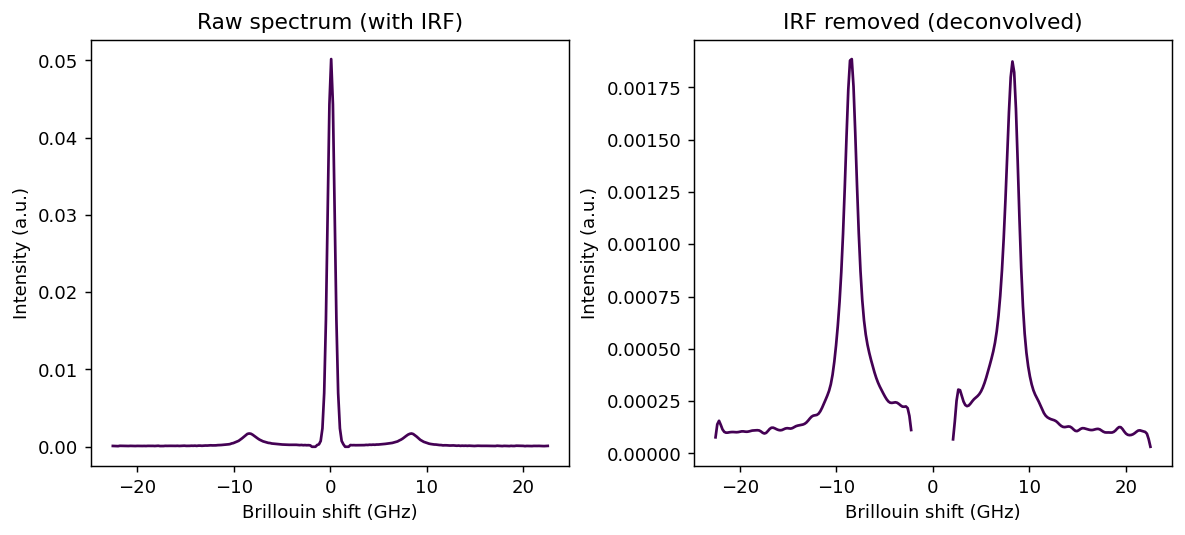
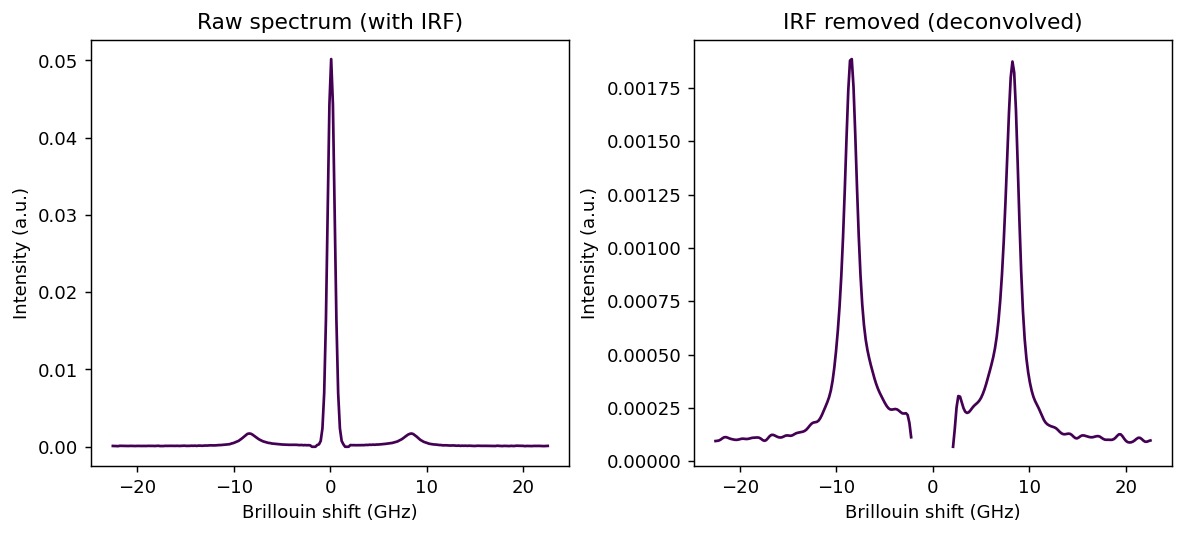
feat: add variance explained function for model selection and enhance IRF deconvolution with padding option

diff --git a/brillouinpy/preprocessing/misc.py b/brillouinpy/preprocessing/misc.py
@@ -91,7 +91,14 @@ class Deconvoluter_IRF(PreprocessingStep):
     iterations : int or None
         The number of Richardson-Lucy deconvolution iterations to run.
     padding : int or None
-        Currently unused by the underlying algorithm; accepted for forward compatibility.
+        Number of channels to reflect-pad the spectrum with on each side before running
+        the deconvolution, then crop back off afterwards. Richardson-Lucy deconvolution
+        otherwise treats the array edges as a hard boundary, which can produce artefacts
+        (a spurious up/down swing) near the first/last few channels; padding with a
+        reflected copy of the spectrum gives the algorithm room to work without that
+        boundary, at the cost of a bit of extra computation. ``None`` or ``0`` disables
+        padding. A value comparable to a few times the IRF's width is a reasonable start;
+        it must be smaller than the spectrum's length.
     """
 
     def __init__(self, *, offset: Number or None, iterations: Number or None, padding: Number or None): # type: ignore
@@ -143,7 +150,7 @@ def _find_instrumental_response(pixel_spectrum):
 
     return start, end
 
-def _deconvolute_irf(intensity_data, spectral_axis, offset, iterations=4, padding=100):
+def _deconvolute_irf(intensity_data, spectral_axis, offset, iterations=4, padding=None):
     '''
     Deconvolute the intensity data with the Instrumental Response Function (IRF) using the Richardson-Lucy algorithm.
     Additionally, the IRF gets removed from the spectral data.
@@ -153,19 +160,30 @@ def _deconvolute_irf(intensity_data, spectral_axis, offset, iterations=4, paddin
     corrected_intensity_data = np.copy(np.asarray(intensity_data))
     spectral_response = np.zeros(intensity_data.shape)
     spatial_shape = intensity_data.shape[:-1]
+    n_channels = intensity_data.shape[-1]
+    pad = padding or 0
 
     for idx in np.ndindex(spatial_shape):
         pixel_spectrum = intensity_data[idx + (slice(None),)]
         start, end = _find_instrumental_response(pixel_spectrum)
         spectral_response[idx + (slice(start, end),)] = pixel_spectrum[start:end]
 
+        image = corrected_intensity_data[idx + (slice(None),)]
+        psf = spectral_response[idx + (slice(None),)]
+        if pad:
+            # Richardson-Lucy treats the array edges as a hard boundary, which produces
+            # a spurious up/down swing near the first/last few channels; padding with a
+            # reflected copy gives it room to work before cropping back to the original
+            # range. The PSF is zero-padded to match, so the IRF's position within the
+            # padded array stays aligned with the (also padded) spectrum.
+            image = np.pad(image, pad, mode='reflect')
+            psf = np.pad(psf, pad, mode='constant')
+
         # Apply Richardson-Lucy deconvolution
-        corrected_intensity_data[idx + (slice(None),)] = restoration.richardson_lucy(
-            corrected_intensity_data[idx + (slice(None),)],
-            spectral_response[idx + (slice(None),)],
-            num_iter=iterations, clip=False,
-            filter_epsilon=None
+        deconvolved = restoration.richardson_lucy(
+            image, psf, num_iter=iterations, clip=False, filter_epsilon=None
         )
+        corrected_intensity_data[idx + (slice(None),)] = deconvolved[pad:pad + n_channels] if pad else deconvolved
         # Remove the IRF and additional offset
         corrected_intensity_data[
             idx + (slice(max(0, start - offset), min(intensity_data.shape[-1], end + offset)),)

diff --git a/brillouinpy/analysis/Step.py b/brillouinpy/analysis/Step.py
@@ -118,3 +118,70 @@ class AnalysisStep:
             return projections_folded[0], components
 
         return projections_folded, components
+
+
+def variance_explained(spectral_object, step_factory: Callable[[int], AnalysisStep], param_values):
+    """
+    Computes the fraction of variance in the data explained by the reconstruction
+    (``projections @ components``) of an :class:`AnalysisStep`, across a range of
+    component/endmember/cluster counts - a model-agnostic way to decide how many are
+    actually needed. This works for any decomposition/unmixing/clustering method
+    (:mod:`~brillouinpy.analysis.decompose`, :mod:`~brillouinpy.analysis.unmix`,
+    :class:`~brillouinpy.analysis.cluster.KMeans`) since they all share the same
+    ``apply() -> (projections, components)`` interface.
+
+    Parameters
+    ----------
+    spectral_object : core.SpectralObject
+        The data to evaluate (a single object, not a list).
+    step_factory : Callable[[int], AnalysisStep]
+        Builds the analysis step for a given count, e.g.
+        ``lambda n: brillouinpy.analysis.decompose.PCA(n_components=n)``,
+        ``lambda n: brillouinpy.analysis.unmix.VCA(n_endmembers=n)`` or
+        ``lambda n: brillouinpy.analysis.cluster.KMeans(n_clusters=n, random_state=0)``.
+    param_values : Iterable[int]
+        The component/endmember/cluster counts to evaluate.
+
+    Returns
+    -------
+    dict[int, float]
+        Fraction of variance explained (in ``[0, 1]``, higher is better) for each value
+        in ``param_values``. Plot this against ``param_values`` and look for the "elbow"
+        where additional components stop meaningfully improving the reconstruction,
+        rather than guessing ``n_components``/``n_endmembers``/``n_clusters`` blind.
+
+    Example
+    ----------
+
+    .. code::
+
+        variances = bp.analysis.variance_explained(
+            image,
+            lambda n: bp.analysis.decompose.NMF(n_components=n, init='nndsvda'),
+            param_values=range(1, 6),
+        )
+        plt.plot(list(variances.keys()), list(variances.values()), marker='o')
+    """
+    data = spectral_object.flat.spectral_data
+    original = np.ma.filled(data, np.nan) if np.ma.is_masked(data) else np.asarray(data)
+    original = original.astype(float)
+
+    results = {}
+    for n in param_values:
+        projections, components = step_factory(n).apply(spectral_object)
+
+        projections_matrix = np.stack([np.asarray(p).reshape(-1) for p in projections], axis=1)
+        components_matrix = np.stack([np.asarray(c) for c in components], axis=0)
+        reconstruction = projections_matrix @ components_matrix
+
+        # Some methods (e.g. PCA) reconstruct data around its per-channel mean rather
+        # than its absolute intensity; absorbing any constant per-channel offset here
+        # (equivalent to fitting an intercept per channel) keeps the metric comparable
+        # across methods without needing to know which ones centre their data.
+        residual = original - reconstruction
+        residual = residual - np.nanmean(residual, axis=0)
+        ss_res = np.nansum(residual ** 2)
+        ss_tot = np.nansum((original - np.nanmean(original, axis=0)) ** 2)
+        results[n] = 1.0 - ss_res / ss_tot if ss_tot > 0 else float('nan')
+
+    return results

diff --git a/tests/test_analysis_step.py b/tests/test_analysis_step.py
@@ -1,0 +1,54 @@
+import numpy as np
+import pytest
+
+from brillouinpy.analysis import decompose, cluster
+from brillouinpy.analysis.Step import variance_explained
+from brillouinpy.core import SpectralImage
+
+
+def _two_material_image(nx=10, ny=10, n_channels=100, seed=0):
+    rng = np.random.default_rng(seed)
+    axis = np.linspace(-20, 20, n_channels)
+
+    def dho(shift, width):
+        return np.exp(-0.5 * ((axis - shift) / width) ** 2)
+
+    spectrum_a = dho(-6.0, 1.0)
+    spectrum_b = dho(6.0, 1.0)
+
+    abundance_a = np.tile(np.linspace(0, 1, nx)[:, None], (1, ny))
+    abundance_b = 1 - abundance_a
+
+    data = (
+        abundance_a[..., None] * spectrum_a[None, None, :]
+        + abundance_b[..., None] * spectrum_b[None, None, :]
+    )
+    data += rng.normal(scale=1e-3, size=data.shape)
+
+    return SpectralImage(data, axis)
+
+
+def test_variance_explained_increases_with_more_components():
+    image = _two_material_image()
+
+    result = variance_explained(
+        image, lambda n: decompose.PCA(n_components=n, random_state=0), param_values=[1, 2, 3],
+    )
+
+    assert list(result.keys()) == [1, 2, 3]
+    assert all(0.0 <= v <= 1.0 + 1e-9 for v in result.values())
+    # Two components should already explain (nearly) everything for two-material data.
+    assert result[2] == pytest.approx(1.0, abs=1e-2)
+    # More components can't explain less variance than fewer.
+    assert result[1] <= result[2] + 1e-9
+    assert result[2] <= result[3] + 1e-9
+
+
+def test_variance_explained_works_with_kmeans():
+    image = _two_material_image()
+
+    result = variance_explained(
+        image, lambda n: cluster.KMeans(n_clusters=n, random_state=0, n_init=10), param_values=[1, 2],
+    )
+
+    assert result[1] < result[2]

diff --git a/tests/test_preprocessing_misc.py b/tests/test_preprocessing_misc.py
@@ -45,3 +45,35 @@ def test_deconvoluter_irf_works_on_raw_5d_shape():
 
     assert result.spectral_data.shape == volume_data.shape
     assert np.all(np.isnan(result.spectral_data[0, 1, 0, 0, 45:55]))
+
+
+def test_deconvoluter_irf_padding_preserves_shape_and_stays_finite():
+    data, axis = _spectrum_with_irf()
+    spectrum = Spectrum(data, axis)
+
+    result = Deconvoluter_IRF(offset=2, iterations=4, padding=15).apply(spectrum)
+
+    assert result.spectral_data.shape == data.shape
+    valid = ~np.isnan(result.spectral_data)
+    assert np.all(np.isfinite(result.spectral_data[valid]))
+    assert np.all(np.isnan(result.spectral_data[45:55]))
+
+
+def test_deconvoluter_irf_padding_reduces_edge_artefact():
+    # A peak whose flank is cut off right at the array's edge (index 0) - the case padding
+    # is meant to help with, since the unpadded deconvolution treats that as a hard boundary.
+    n_channels = 100
+    axis = np.linspace(-20, 20, n_channels)
+    irf_index = 50
+    irf = np.exp(-0.5 * ((np.arange(n_channels) - irf_index) / 2) ** 2)
+    edge_peak = np.exp(-0.5 * ((np.arange(n_channels) - 3) / 3) ** 2)
+    data = 0.1 * edge_peak + irf
+    data[irf_index - 10:irf_index - 7] = 0
+    data[irf_index + 7:irf_index + 10] = 0
+    spectrum = Spectrum(data, axis)
+
+    unpadded = Deconvoluter_IRF(offset=2, iterations=4, padding=None).apply(spectrum)
+    padded = Deconvoluter_IRF(offset=2, iterations=4, padding=20).apply(spectrum)
+
+    # Padding changes the result near the edge - it isn't silently ignored.
+    assert not np.allclose(unpadded.spectral_data[:5], padded.spectral_data[:5])

diff --git a/examples/05_unmix_vca.py b/examples/05_unmix_vca.py
@@ -48,6 +48,22 @@ if __name__ == '__main__':
         bp.preprocessing.normalise.MaxIntensity(pixelwise=True),
     ]).apply(brillouin_image)
 
+    # Instead of guessing n_endmembers, check how much variance each count explains -
+    # variance_explained() works with any decompose/unmix/cluster step via the same
+    # apply() -> (projections, components) interface, so it's not VCA-specific.
+    variances = bp.analysis.variance_explained(
+        preprocessed_image,
+        lambda n: bp.analysis.unmix.VCA(n_endmembers=n, abundance_method='ucls'),
+        param_values=range(1, 5),
+    )
+    print(f"Variance explained by n_endmembers: {variances}")
+    # -> a large jump from n_endmembers=1 to 2, then barely any further improvement -
+    # that "elbow" is what indicates 2 is the right count, not the absolute level (which
+    # stays well under 1.0 here because most channels are flat baseline: measurement
+    # noise there dominates the total variance, capping the achievable value even for
+    # a perfect model - the same reason PCA's explained_variance_ratio_ rarely sums
+    # to 1.0 either).
+
     # n_endmembers is the number of distinct materials you expect to find.
     # abundance_method picks the algorithm used to derive the abundance maps from the
     # endmembers found ('ucls', 'nnls' or 'fcls' - see the class docstring).

diff --git a/docs/generate_tutorial_images.py b/docs/generate_tutorial_images.py
@@ -50,7 +50,7 @@ if __name__ == '__main__':
     # 2. IRF removal
     # -----------------------------------------------------------------------
     irf_image, irf_index = image_with_irf()
-    cleaned_image = bp.preprocessing.misc.Deconvoluter_IRF(offset=3, iterations=4, padding=None).apply(irf_image)
+    cleaned_image = bp.preprocessing.misc.Deconvoluter_IRF(offset=3, iterations=4, padding=20).apply(irf_image)
 
     fig = plt.figure(figsize=(9, 4), layout='constrained')
     plt.subplot(121)
@@ -108,6 +108,18 @@ if __name__ == '__main__':
     mix_preprocessed = bp.preprocessing.Pipeline([
         bp.preprocessing.normalise.MaxIntensity(pixelwise=True),
     ]).apply(mix_image)
+
+    variances = bp.analysis.variance_explained(
+        mix_preprocessed,
+        lambda n: bp.analysis.unmix.VCA(n_endmembers=n, abundance_method='ucls'),
+        param_values=range(1, 5),
+    )
+    plt.figure(figsize=(5, 4))
+    plt.plot(list(variances.keys()), list(variances.values()), marker='o')
+    plt.xlabel('n_endmembers')
+    plt.ylabel('Variance explained')
+    plt.title('Choosing n_endmembers')
+    savefig('05a_variance_explained.png')
 
     unmixer = bp.analysis.unmix.VCA(n_endmembers=2, abundance_method='ucls')
     abundance_maps, endmembers = unmixer.apply(mix_preprocessed)

diff --git a/examples/02_remove_irf.py b/examples/02_remove_irf.py
@@ -49,7 +49,10 @@ if __name__ == '__main__':
     # detected IRF region (e.g. to also remove some stray Rayleigh-scattered light
     # bleeding past the IRF's zero-baseline edges) - real data with more stray light
     # may need a much larger value here (e.g. 65) than this synthetic example does.
-    deconvoluter = bp.preprocessing.misc.Deconvoluter_IRF(offset=3, iterations=4, padding=None)
+    # 'padding' reflect-pads the spectrum before deconvolution to avoid edge artefacts
+    # (a spurious up/down swing near the first/last few channels) - set it if you see
+    # those; a value of None/0 disables it.
+    deconvoluter = bp.preprocessing.misc.Deconvoluter_IRF(offset=3, iterations=4, padding=20)
     cleaned_image = deconvoluter.apply(brillouin_image)
 
     # Compare a single raw spectrum against the IRF-removed result

diff --git a/brillouinpy/analysis/__init__.py b/brillouinpy/analysis/__init__.py
@@ -1,6 +1,7 @@
 from . import fitmodel
+from .Step import variance_explained
 
-__all__ = ["cluster", "decompose", "unmix", "fitmodel"]
+__all__ = ["cluster", "decompose", "unmix", "fitmodel", "variance_explained"]
 
 
 def __getattr__(name):

diff --git a/docs/tutorial.md b/docs/tutorial.md
@@ -145,7 +145,7 @@ it as the point-spread function to sharpen the rest of the spectrum via
 Richardson-Lucy deconvolution, and only then blanks that region out (set to `NaN`):
 
 ```python
-deconvoluter = bp.preprocessing.misc.Deconvoluter_IRF(offset=3, iterations=4, padding=None)
+deconvoluter = bp.preprocessing.misc.Deconvoluter_IRF(offset=3, iterations=4, padding=20)
 cleaned_image = deconvoluter.apply(brillouin_image)
 ```
 
@@ -154,6 +154,11 @@ to also catch stray Rayleigh-scattered light bleeding past the IRF's zero-baseli
 edges - real data with more stray light may need a much larger value here (e.g.
 `65`) than this synthetic example does. `iterations` controls how many
 Richardson-Lucy iterations run; it isn't something to change without reason.
+`padding` reflect-pads the spectrum by that many channels on each side before
+deconvolution, then crops back to the original length afterwards - Richardson-Lucy
+otherwise treats the array edges as a hard boundary, which can produce a spurious
+up/down swing near the first/last few channels; a value comparable to a few times
+the IRF's width is a reasonable start. `None`/`0` disables it.
 Because this relies on finding genuine zero-intensity channels, always check a raw,
 unprocessed spectrum first (as above) to confirm your data has a comparable zero
 baseline around the IRF before relying on this step - if the scan never finds a
@@ -285,7 +290,53 @@ spectra (**endmembers**) that best explain the whole spectral image, plus a
 per-pixel **abundance map** of how much of each is present - useful to separate
 spatially mixed materials without assuming a peak model up front, e.g. when the
 number/shape of peaks per material isn't known ahead of time or varies across the
-sample:
+sample.
+
+### Choosing how many endmembers/components/clusters
+
+Step 4's variance spectrum already gives a first, model-free estimate of the count
+to use - `analysis.variance_explained` complements it with a second, quantitative
+check that works directly against whichever method you're about to run:
+
+```python
+variances = bp.analysis.variance_explained(
+    preprocessed_image,
+    lambda n: bp.analysis.unmix.VCA(n_endmembers=n, abundance_method='ucls'),
+    param_values=range(1, 5),
+)
+```
+
+```{image} _static/tutorial/05a_variance_explained.png
+:alt: Line plot of variance explained versus n_endmembers, showing a sharp jump from n=1 to n=2 followed by an almost flat line for n=3 and n=4 - a clear elbow at 2.
+:width: 480px
+:align: center
+```
+
+For each count in `param_values`, this fits the given method, reconstructs the data
+as `projections @ components`, and returns the fraction of variance that
+reconstruction explains (`{1: ..., 2: ..., ...}`) - plot it and look for the
+"elbow" where adding another endmember/component/cluster stops meaningfully
+improving the fit, rather than guessing `n_endmembers` blind. Here that's a sharp
+jump from `n_endmembers=1` to `2`, then almost no further gain at `3` or `4` -
+confirming 2 is the right count for this two-material dataset. Note that the
+*absolute* level doesn't have to approach `1.0` to be a useful signal, especially
+for spectral data: the metric weighs every channel equally, but a typical spectrum
+is mostly flat baseline with only a couple of narrow peaks actually carrying
+structure that varies with the endmembers/components - so measurement noise on
+that (large) baseline dominates the total variance, capping the achievable value
+well below `1.0` even for a perfect model. It's the shape of the curve (the
+elbow), not its height, that tells you how many to use - the same reasoning
+`sklearn.decomposition.PCA.explained_variance_ratio_` is built on.
+
+Since `analysis.decompose.PCA`/`NMF`, every `analysis.unmix` method and
+`analysis.cluster.KMeans` all share the same `apply() -> (projections, components)`
+interface, the exact same `variance_explained` call works unchanged for any of
+them - just swap the `lambda` for e.g.
+`lambda n: bp.analysis.decompose.NMF(n_components=n, init='nndsvda')` or
+`lambda n: bp.analysis.cluster.KMeans(n_clusters=n, random_state=0)` ahead of steps
+6-8.
+
+### Finding the endmembers
 
 ```python
 unmixer = bp.analysis.unmix.VCA(n_endmembers=2, abundance_method='ucls')
